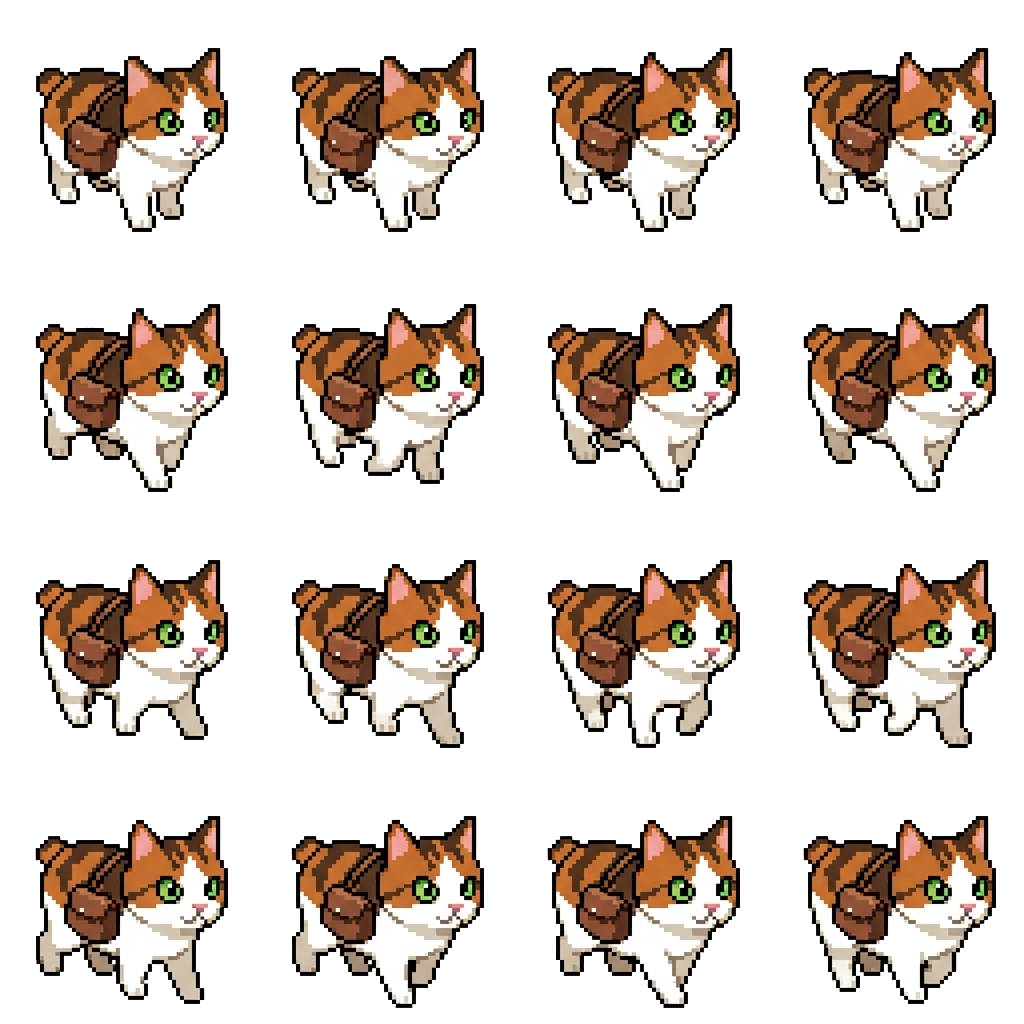
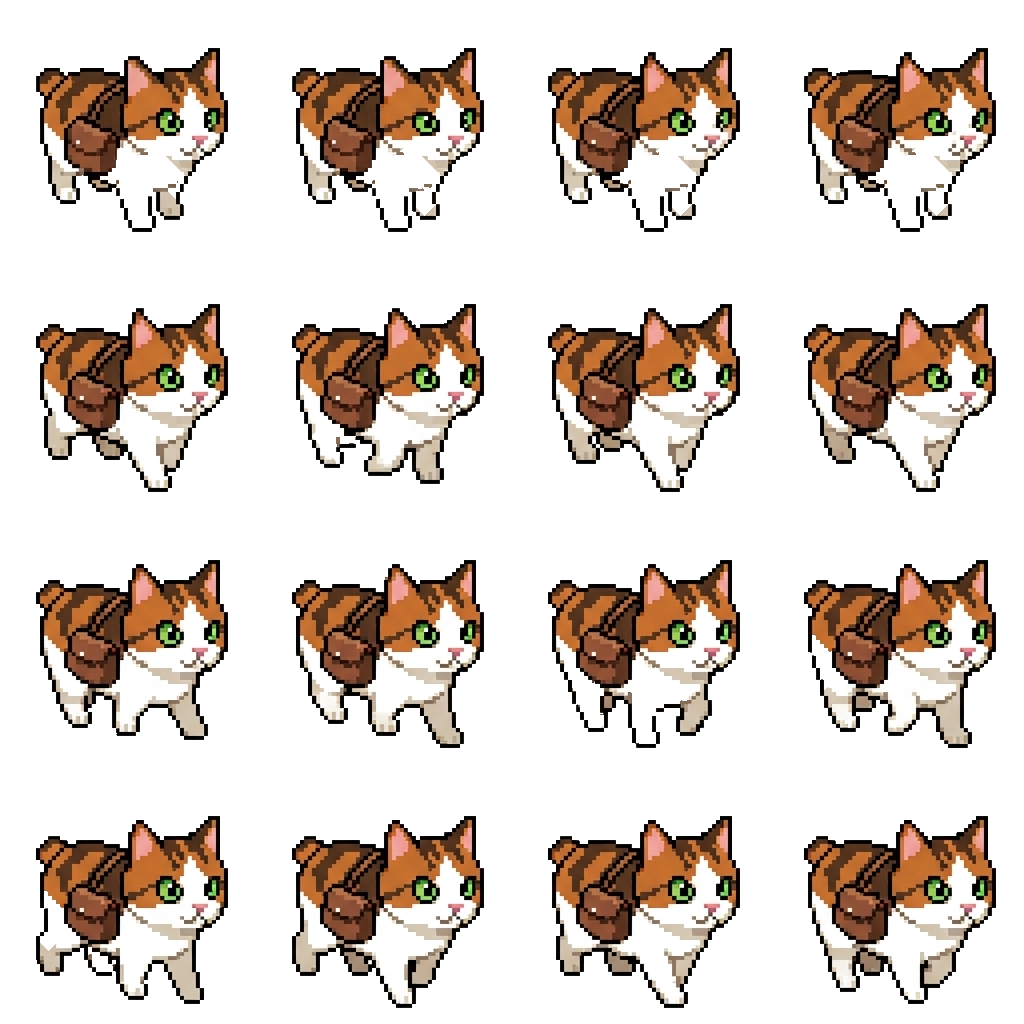
Improve tablet UX in Prism Tycoon: smart tap-to-move, machine layout, upgrade hold time, and sprite alpha fixes

diff --git a/games/prism-tycoon/index.html b/games/prism-tycoon/index.html
@@ -318,11 +318,11 @@
     const CAT_SIZE = 52;
     const WALK_FPS = 9;
 
-    // Yard pads — WOS-ad style: stand on dotted square to interact.
+        // Yard pads — WOS-ad style: stand on dotted square to interact.
     const YARD = { x: 56, y: 110, w: 888, h: 470 };
-    const MINE_VEIN = { x: 88, y: 390, w: 120, h: 120 };
-    const MARKET_PAD = { x: 790, y: 390, w: 120, h: 120 };
-    const BAG_PAD = { x: 88, y: 250, w: 120, h: 72 };
+    const MINE_VEIN = { x: 70, y: 370, w: 130, h: 120 };
+    const MARKET_PAD = { x: 790, y: 350, w: 130, h: 120 };
+    const BAG_PAD = { x: 70, y: 220, w: 130, h: 80 };
     const CASH_ANCHOR = {
       x: MARKET_PAD.x - 28,
       y: MARKET_PAD.y + MARKET_PAD.h - 6
@@ -352,38 +352,33 @@
     }
 
     function kioskRect(m) {
-      // First buy: input shelf. Upgrade: dedicated [+] pad beside the shed.
       if (mLv(m.id) < 1) return m.input;
       return m.upgrade;
     }
 
     // body = solid (no walk-through). input/output = walkable shelves.
-    // One shared shed: raw→trap and trap→para (사다리꼴·평행사변형 통일).
+    // Modified layout: Input and Output are side-by-side in front of the body for better visibility.
     const MACHINES = [
       { id: 'parallel', name: '나란히 틀', costs: [100, 120, 200, 320, 480], req: null,
-        body: { x: 268, y: 320, w: 112, h: 68 },
-        input: { x: 246, y: 396, w: 156, h: 48 },
-        output: { x: 246, y: 266, w: 156, h: 48 },
+        body: { x: 300, y: 270, w: 140, h: 72 },
+        input: { x: 280, y: 342, w: 80, h: 56 },
+        output: { x: 380, y: 342, w: 80, h: 56 },
         ops: { raw: 'trap', trap: 'para' }, sign: ['raw', 'para'] },
       { id: 'adjacent', name: '이웃 변 룬', costs: [420, 180, 300, 460, 700], req: 'parallel',
-        body: { x: 538, y: 208, w: 120, h: 68 },
-        input: { x: 516, y: 284, w: 164, h: 48 },
-        output: { x: 516, y: 154, w: 164, h: 48 },
+        body: { x: 570, y: 170, w: 140, h: 72 },
+        input: { x: 550, y: 242, w: 80, h: 56 },
+        output: { x: 650, y: 242, w: 80, h: 56 },
         ops: { para: 'rhombus', rect: 'square' }, sign: ['para', 'rhombus'] },
       { id: 'right', name: '직각 룬', costs: [420, 180, 300, 460, 700], req: 'parallel',
-        body: { x: 538, y: 420, w: 120, h: 68 },
-        input: { x: 516, y: 496, w: 164, h: 48 },
-        output: { x: 516, y: 366, w: 164, h: 48 },
+        body: { x: 570, y: 400, w: 140, h: 72 },
+        input: { x: 550, y: 472, w: 80, h: 56 },
+        output: { x: 650, y: 472, w: 80, h: 56 },
         ops: { para: 'rect', rhombus: 'square' }, sign: ['para', 'rect'] }
     ];
 
     MACHINES.forEach((m) => {
-      // [+] on the OUTER flank of each factory — never in the shared center aisle
-      // (left column → left of shelf, right column → right of shelf).
-      const leftCol = m.body.x < 400;
-      m.upgrade = leftCol
-        ? { x: m.input.x - 56, y: m.input.y, w: 48, h: 48 }
-        : { x: m.input.x + m.input.w + 8, y: m.input.y, w: 48, h: 48 };
+      // Upgrade pad moved to the rear/top of the machine body to separate it from the main input/output path
+      m.upgrade = { x: m.body.x + (m.body.w / 2) - 28, y: m.body.y - 52, w: 56, h: 50 };
       m.area = {
         x: Math.min(m.body.x, m.input.x, m.output.x, m.upgrade.x) - 4,
         y: Math.min(m.body.y, m.input.y, m.output.y, m.upgrade.y) - 8,
@@ -1016,11 +1011,67 @@
           }
 
           if (!hitUi) {
-            const tx = Math.max(BOUNDS.x0 + 12, Math.min(BOUNDS.x1 - 12, mx));
-            const ty = Math.max(BOUNDS.y0 + 12, Math.min(BOUNDS.y1 - 12, my));
+            let targetX = mx;
+            let targetY = my;
+            let isSmart = false;
+
+            if (mx >= MINE_VEIN.x && mx <= MINE_VEIN.x + MINE_VEIN.w && my >= MINE_VEIN.y && my <= MINE_VEIN.y + MINE_VEIN.h) {
+              targetX = MINE_VEIN.x + MINE_VEIN.w / 2;
+              targetY = MINE_VEIN.y + MINE_VEIN.h / 2;
+              isSmart = true;
+            } else if (mx >= MARKET_PAD.x && mx <= MARKET_PAD.x + MARKET_PAD.w && my >= MARKET_PAD.y && my <= MARKET_PAD.y + MARKET_PAD.h) {
+              targetX = MARKET_PAD.x + MARKET_PAD.w / 2;
+              targetY = MARKET_PAD.y + MARKET_PAD.h / 2;
+              isSmart = true;
+            } else if (mx >= BAG_PAD.x && mx <= BAG_PAD.x + BAG_PAD.w && my >= BAG_PAD.y && my <= BAG_PAD.y + BAG_PAD.h) {
+              targetX = BAG_PAD.x + BAG_PAD.w / 2;
+              targetY = BAG_PAD.y + BAG_PAD.h / 2;
+              isSmart = true;
+            } else {
+              for (const m of MACHINES) {
+                if (mLv(m.id) >= 1) {
+                  const inInput = (mx >= m.input.x && mx <= m.input.x + m.input.w && my >= m.input.y && my <= m.input.y + m.input.h);
+                  const inOutput = (mx >= m.output.x && mx <= m.output.x + m.output.w && my >= m.output.y && my <= m.output.y + m.output.h);
+                  const inUpgrade = (mx >= m.upgrade.x && mx <= m.upgrade.x + m.upgrade.w && my >= m.upgrade.y && my <= m.upgrade.y + m.upgrade.h);
+                  const inBody = (mx >= m.body.x && mx <= m.body.x + m.body.w && my >= m.body.y && my <= m.body.y + m.body.h);
+                  
+                  if (inUpgrade) {
+                    targetX = m.upgrade.x + m.upgrade.w / 2;
+                    targetY = m.upgrade.y + m.upgrade.h / 2;
+                    isSmart = true;
+                    break;
+                  } else if (inInput || inOutput || inBody) {
+                    let needInput = false;
+                    for (let g of state.carry) {
+                      if (m.ops[g.kind]) { needInput = true; break; }
+                    }
+                    if (needInput) {
+                      targetX = m.input.x + m.input.w / 2;
+                      targetY = m.input.y + m.input.h / 2;
+                    } else {
+                      targetX = m.output.x + m.output.w / 2;
+                      targetY = m.output.y + m.output.h / 2;
+                    }
+                    isSmart = true;
+                    break;
+                  }
+                } else {
+                  const kiosk = kioskRect(m);
+                  if (mx >= kiosk.x && mx <= kiosk.x + kiosk.w && my >= kiosk.y && my <= kiosk.y + kiosk.h) {
+                    targetX = kiosk.x + kiosk.w / 2;
+                    targetY = kiosk.y + kiosk.h / 2;
+                    isSmart = true;
+                    break;
+                  }
+                }
+              }
+            }
+
+            const tx = Math.max(BOUNDS.x0 + 12, Math.min(BOUNDS.x1 - 12, targetX));
+            const ty = Math.max(BOUNDS.y0 + 12, Math.min(BOUNDS.y1 - 12, targetY));
             state.targetPos = { x: tx, y: ty };
             if (!state.ripples) state.ripples = [];
-            state.ripples.push({ x: tx, y: ty, t: 0 });
+            state.ripples.push({ x: tx, y: ty, t: 0, isSmart: isSmart });
           }
         }
         stick = null;
@@ -1286,7 +1337,7 @@
           return;
         }
         s.buyT[m.id] = (s.buyT[m.id] || 0) + dt;
-        if (s.buyT[m.id] >= 0.75) {
+        if (s.buyT[m.id] >= 1.5) {
           s.buyT[m.id] = 0;
           buy(m);
         }
@@ -1300,7 +1351,7 @@
         const bagCost = BAG_COSTS[s.bagLevel];
         if (s.gold >= bagCost) {
           s.bagT += dt;
-          if (s.bagT >= 0.7) { s.bagT = 0; buyBag(); }
+          if (s.bagT >= 1.5) { s.bagT = 0; buyBag(); }
         } else {
           s.bagT = 0;
           s.poorFlash = Math.max(s.poorFlash, 0.55);
